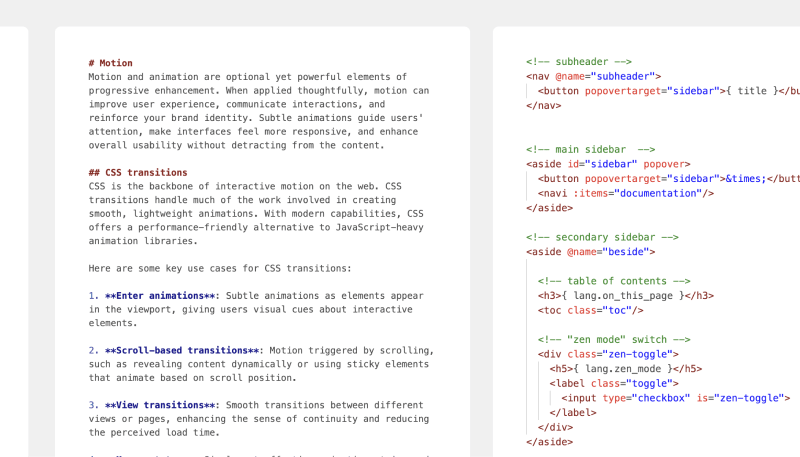
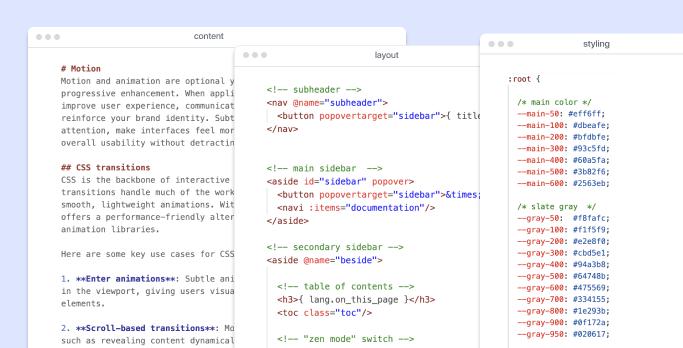
'How it works' images

diff --git a/packages/nuejs.org/docs/css/doc-navi.css b/packages/nuejs.org/docs/css/doc-navi.css
@@ -115,12 +115,12 @@ aside:first-child h3 {
 
   /* websites */
   nav:nth-child(2) & {
-    background-image: url(/icon/wrench.svg)  /* squares, rectangles, wrench, globe, user, heart, bolt */
+    background-image: url(/icon/globe.svg)  /* squares, rectangles, wrench, globe, user, heart, bolt */
   }
 
-  /* extensions */
+  /* reference */
   nav:nth-child(3) & {
-    background-image: url(/icon/cube.svg) /*  puzzle-piece, cube, , document, */
+    background-image: url(/icon/document.svg) /*  puzzle-piece, cube, , document, */
   }
 
 }

diff --git a/packages/nuekit/src/site.js b/packages/nuekit/src/site.js
@@ -262,7 +262,7 @@ export async function createSite(args) {
     let paths = await getAssets({ dir, exts: ['css'], data })
 
     // syntax highlighting
-    if (data.syntax_highlight !== false && data.document?.codeblocks[0]) paths.push(`/@nue/syntax.css`)
+    if (data.use_syntax) paths.push(`/@nue/syntax.css`)
 
     // cascading order: globals -> area -> page
     sortCSS({ paths, globals: self.globals, dir })

diff --git a/packages/nuekit/src/nuekit.js b/packages/nuekit/src/nuekit.js
@@ -109,6 +109,8 @@ export async function createKit(args) {
 
     // scripts & styling
     const asset_dir = meta.appdir || dir
+    data.use_syntax = data.syntax_highlight !== false && document.codeblocks[0]
+
     data.assets = {}
     await setupScripts(asset_dir, data)
     await setupStyles(asset_dir, data)

diff --git a/packages/nuejs.org/@global/global.css b/packages/nuejs.org/@global/global.css
@@ -60,7 +60,7 @@ hr {
 /* definition list  */
 dl {
   display: grid;
-  grid-template-columns: .3fr 1fr;
+  grid-template-columns: .4fr 1fr;
   font-size: .95rem;
   gap: 1.5em;
 

diff --git a/packages/nuejs.org/@lib/technical-content.css b/packages/nuejs.org/@lib/technical-content.css
@@ -236,7 +236,7 @@ figure {
   margin: 2em 0 3em;
 
   img {
-    border-radius: 10px;
+    border-radius: 6px;
   }
 
   &:has(img[width]) {

diff --git a/packages/nuejs.org/docs/how-it-works.md b/packages/nuejs.org/docs/how-it-works.md
@@ -8,14 +8,17 @@ Nue is a carefully crafted Static Site Generator (SSG) built from the ground up 
 [image]
   small: /img/progressive-enhancement.png
   large: /img/progressive-enhancement-big.png
-  width: 700 x 139
+  width: 700 x 187
 
 
 ## Content first
 With Nue, each page is built using an extended Markdown syntax designed for interactive websites. Whether it’s marketing, technical documentation, or blogging content, everything is directly editable:
 
-[image]
-  alt: direct editing of marketing, technical, and blogging content
+[image.bordered]
+  caption: Nue's extended Markdown syntax handles all varieties of content
+  small: /img/content-files.png
+  large: /img/content-files-big.png
+  size: 745 × 383
 
 This **content-first approach** offers several advantages:
 
@@ -26,48 +29,61 @@ This **content-first approach** offers several advantages:
 3. **AI-Friendly**: Markdown format enhances collaboration with AI tools, allowing easy copy/paste for grammar, strategy, and storytelling support.
 
 
-## Clean, crawler-friendly markup
+## Clean markup
 Nue generates clean, semantic HTML optimized for accessibility and SEO. Its Markdown parser and components are designed to produce code that is easy to understand for search engines, AI crawlers, and users with disabilities, ensuring your content is both machine-friendly and user-accessible.
 
-[image]
-  caption: Md extensions -> Layout Modules -> Semantic HTML
+[image.bordered]
+  caption: "The markup of this documentation area"
+  large: /img/clean-markup-big.png
+  small: /img/clean-markup.png
+  size: 648 × 512
 
 
 
 ## Interactive islands
-**Islands architecture** promotes small, focused units of interactivity within server-rendered web pages, further distancing you from tightly coupled architectures. Nue allows you to choose the best-fit technology for each interactive element: an interactive island, an isomorphic island, or a Web Component.
+**Islands architecture** promotes small, focused units of interactivity within server-rendered web pages, further distancing you from tightly coupled architectures. Nue allows you to choose the best-fit technology for each interactive element: an interactive island, an isomorphic island, or a vanilla web component.
 
 
-! 3 IMAGES: Web Components | Reactive islands | Isomorphic islands (show server only)
-  1. Web Components for simple interactions with little, or no dynamic markup
-  2. Dynamic HTML components for rich interactivity
-  3. Isomorphic components for combined SEO and client-side reactivity
+[image.bordered]
+  caption: Reactive contact form and an isomorphic video component.
+  large: /img/island-files-big.png
+  small: /img/island-files.png
+  size: 745 × 380
 
 
 
 ## Styling
 Nue separates styling from your JavaScript files, allowing you to leverage the full power of modern CSS and its global nature. This lets you build a centralized system that maintains consistent styling across your site without namespace conflicts.
 
-[images]
-  1. Variables (desing tokens)
-  2. Global layout (nesting)
-  3. Elements (modularity)
+[image.bordered]
+  caption: Decoupled CSS forms a centralized design system
+  large: /img/styling-files-big.png
+  small: /img/styling-files.png
+  size: 745 × 403
 
-CSS is a web standard that allows you to build timeless products and develop skills that will remain relevant in the ever-evolving landscape of web development.
+[.note]
+  ### Note
+  In addition to its clean, designer-friendly syntax, a major benefit of vanilla CSS is that, as a web standard, it helps you create timeless products and build skills that remain relevant in the ever-changing world of web development.
 
 
 
 ## Motion
-Motion and animation are optional, yet important, aspects of progressive enhancement. When used subtly, motion can enhance the user experience and strengthen your brand. Decoupled CSS simplifies adding a global motion layer to your site.
+Motion is the final optional step in progressive enhancement. Subtle microinteractions, like enter animations, view transitions, and scroll-triggered transitions, can improve user experience and strengthen your brand identity. Nue’s built-in support for view transitions, combined with the strengths of modern CSS, gives you new creative options to work with:
+
+```css
+/* setup hero image to morph between page switches */
+.hero-image {
+  view-transition-name: active-image;
+}
+
+/* adjust morph duration */
+::view-transition-group(active-image) {
+  animation-duration: .4s;
+}
+```
 
 
-! CSS: view transitions / @starting styles | IntersectionObserver
-  1. Nue has built-in support for CSS customizable view transitions
-  2. Modern CSS is a different beast than what it was just a few years ago
-  3. JavaScript's event system offers endless ways to trigger animations
-
-
-## Performance Optimization
+## Performance optimization
 
 Progressive enhancement opens new opportunities for performance improvement:
 
@@ -77,16 +93,18 @@ Progressive enhancement opens new opportunities for performance improvement:
 
 - **Page Weight**: Achieve significantly smaller footprints with a carefully crafted design system. For example, the CSS for this entire page is smaller than Tailwind's basic "preflight" CSS.
 
-[Learn more about performance optimization](optimization.html).
-
 
 
 ## Design engineering
 With Nue, you shift from **JavaScript engineering** to **Design Engineering**, fundamentally changing the way you build websites:
 
-[image]
+[image.bordered]
   caption: Compare JavaScript engineering to Design Engineering
   popovertarget: compare-dialog
+  large: /img/js-vs-design-big.png
+  small: /img/js-vs-design.png
+  size: 745 × 403
+
 
 1. **Better design and UX**: Instead of tackling engineering-specific problems, you’ll focus your efforts on **design, usability, accessibility**, and **SEO**.
 
@@ -94,33 +112,37 @@ With Nue, you shift from **JavaScript engineering** to **Design Engineering**, f
 
 3. **Better use of talent**: Designers can focus on design, content specialists on content, and **design engineers** on UX. This makes happier, more effective teams where everyone focuses on their strengths.
 
-4. **Grow new skills**: With Nue, you’ll develop expertise in both **design** and **engineering**. You’ll master **design systems**, modern **CSS**, and standards-based **JavaScript**—bringing back the joy and creativity of web development.
+4. **Grow new skills**: Learn **design systems**, **modern CSS**, **motion design**, and standards-based **JavaScript** to make web development fun and creative (again).
 
+5. **Stay competitive** It's wise to stick with web standards, as this benefits your skills and career. Plus, the products you create will be more durable over time.
 
+- - -
 
-## Terminology
+### Terminology
+Key terms mentioned in this article:
 
 [define]
-  ### Separation of Concerns { #se }
+  ### Separation of Concerns
   The principle of keeping content and presentation/enhancement layers distinct to facilitate easier maintenance and scalability.
   [Wikipedia](//en.wikipedia.org/wiki/Separation_of_content_and_presentation)
 
-  ### Progressive Enhancement { #pe }
+  ### Progressive Enhancement
   A web design strategy that prioritizes core content and functionality, gradually enhancing them with advanced features for capable browsers.
   [Wikipedia](//en.wikipedia.org/wiki/Progressive_enhancement)
 
-  ### Monolithic Architecture { #ma }
-  A monolithic application is a single, tightly coupled codebase that manages all aspects of a system, contrasting with the separation of concerns approach.
+  ### JavaScript monolith
+  JavaScript bundles that pack numerous features into a single file, often leading to complexity, reduced clarity, and maintenance challenges.
   [Wikipedia](//en.wikipedia.org/wiki/Monolithic_application)
 
-  ### Loose coupling { #lc }
+  ### Loose coupling
   Loose coupling minimizes dependencies between components, allowing changes in one component with minimal impact on others. It's the opposite of tight coupling.
   [Wikipedia](//en.wikipedia.org/wiki/Coupling_(computer_programming))
 
-  ### Islands Architecture { #islands }
+  ### Islands Architecture
   A modular design approach that introduces isolated interactive components into an otherwise static web page.
   [Patterns.dev](//www.patterns.dev/vanilla/islands-architecture/)
 
-  ### Isomorphic Components { #isomorphic }
+  ### Isomorphic Components
   Components that can be rendered both on the server and the client, combining the best of server-side performance and client-side interactivity.
   [Wikipedia](//en.wikipedia.org/wiki/Isomorphic_JavaScript)
+

diff --git a/packages/nuejs.org/docs/styling.md b/packages/nuejs.org/docs/styling.md
@@ -37,7 +37,7 @@ Vanilla CSS offers clear performance advantages:
 
 
 ### Timeless skills and products
-The JS monolith and all the unstandard mechanisms inside of it are indeed popular at this point. But who knows what happens in five years. The awkward utility syntaxes, and the lost potential are strong signals of technology debt. It's better to stick with web standards. That's good for your skillset and career. And the product you build will stand the test of time.
+The JS monolith and its various unstandardized features are popular right now, but it's hard to predict what will happen in five years. The complicated utility syntaxes and missed opportunities indicate potential technology debt. It's wise to stick with web standards, as this benefits your skills and career. Plus, the products you create will be more durable over time.
 
 
 

diff --git a/packages/nuejs.org/docs/index.md b/packages/nuejs.org/docs/index.md
@@ -66,7 +66,7 @@ Nue is a great fit for:
 If you’re looking to build beautiful and innovative websites with faster tooling and a simpler development model, **Nue is the right choice for you**.
 
 
-## Terminology
+### Terminology
 Key terms mentioned in this article:
 
 [define]
